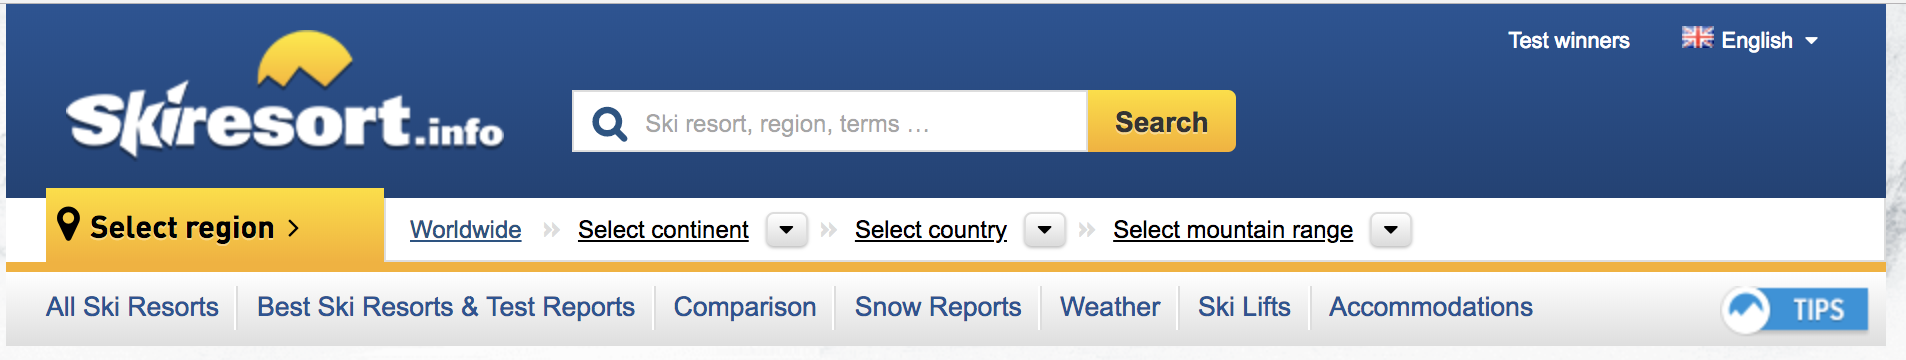
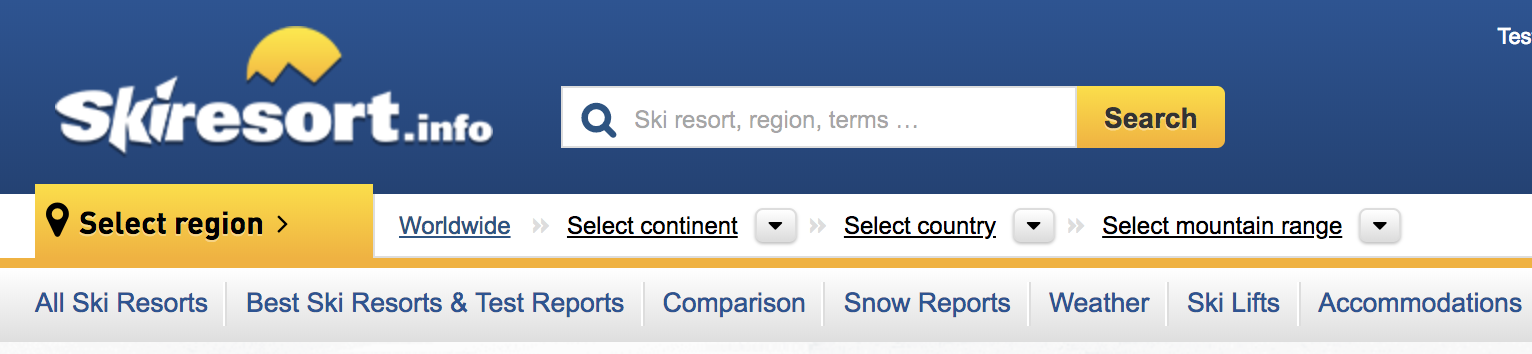
Fixed the formatting

diff --git a/app/templates/layout2.html b/app/templates/layout2.html
@@ -14,10 +14,8 @@
     body {
         background-image: url( '/static/img/skiimage.jpg' );
     }
-    .collapse navbar-collapse {
-    background-color: white;
-    }
-    div {
+
+    .container-fluid {
     background-color: white;
     }
 
@@ -35,10 +33,10 @@
           </button>
           <div class="collapse navbar-collapse" id="navbarToggle">
             <div class="navbar-nav mr-auto">
-              <a class="nav-item nav-link" href="{{ url_for('home') }}"><font color="black">Home</font></a>
-              <a class="nav-item nav-link" href="{{ url_for('about') }}"><font color="black">About</font></a>
-              <a class="nav-item nav-link" href="{{ url_for('insights') }}"><font color="black">Insights</font></a>
-              <a class="nav-item nav-link" href="{{ url_for('form_1') }}"><font color="black">Recommender</font></a>
+              <a class="nav-item nav-link" href="{{ url_for('home') }}">Home</a>
+              <a class="nav-item nav-link" href="{{ url_for('about') }}">About</a>
+              <a class="nav-item nav-link" href="{{ url_for('insights') }}">Insights</a>
+              <a class="nav-item nav-link" href="{{ url_for('form_1') }}">Recommender</a>
             </div>
           </div>
         </div>
@@ -47,7 +45,7 @@
     <main role="main" class="container">
       <div class="row">
     <div class="container-fluid">
-    <div id="page-content" class="col-lg-10 offset-md-1 pt-5 px-4 shadow-lg">
+    <div id="page-content" class="col-lg-11 offset-md-0.5 ">
           {% with messages = get_flashed_messages(with_categories=true) %}
             {% if messages %}
               {% for category, message in messages %}

diff --git a/app/templates/about.html b/app/templates/about.html
@@ -10,19 +10,19 @@
                 <p>
                     The data used to complete this project was scraped from Skiresort.info.com
                 </p>
-    <img src="{{url_for('static', filename='SkiInfo.png' )}}" width="800" height="160" align="middle" />
+    <img src="{{url_for('static', filename='SkiInfo.png' )}}" width="600" height="120" align="middle" />
     <p style="border: 1px solid black" length = "800"> </p>
     <h3>Ski Resort Details </h3>
         <p>
         The ski resort detail have basic information about each of the resorts including the terrain details and pricing.
     </p>
-    <img src="{{url_for('static', filename='SkiDetails.png' )}}" width="650" height="500" align="middle"/>
+    <img src="{{url_for('static', filename='SkiDetails.png' )}}" width="600" height="450" align="middle"/>
     <p style="border: 1px solid black" length = "800"> </p>
     <h3>Ratings </h3>
             <p>
         The website also provides ratings that have been put together by ski experts who have done onsite visits at each of the resorts. The categories included in the evaluation are ski-related and non ski-related.
     </p>
-    <img src="{{url_for('static', filename='Ratings.png' )}}" width="800" height="350" align="middle"/>
+    <img src="{{url_for('static', filename='Ratings1.png' )}}" width="600" height="800" align="middle"/>
     <p style="border: 1px solid black" length = "800"> </p>
     <h3>(Half)Pipeline for Analysis </h3>
                 <p>

diff --git a/app/templates/googlechart.html b/app/templates/googlechart.html
@@ -251,7 +251,7 @@
         var options = {
 
           title: 'Features of Each of the Ski Resorts',
-          backgroundColor: '#FAFAFA',
+          backgroundColor: 'white',
           chartArea: {
             top: 55,
             height: '30%',
@@ -370,8 +370,9 @@
        <option value="Accomodations">Accomodations</option>
       </select>
     </div>
-    <div id="chart_div" style="width: 800px; height: 600px;"></div>
+    <div id="chart_div" style="width: 650px; height: 600px;"></div>
   </body>
+  <br />
   <p style="border: 1px solid black" length = "800"> </p>
   <form id='userinfoform_ski' method='get' action='/recommendations' >
   <input type="hidden" id="postId" name="name_skiresort" value="{{resort}}">

diff --git a/app/templates/insights.html b/app/templates/insights.html
@@ -11,7 +11,7 @@
                 <p>
                     In this graphic, we show the distribution of where the majority of the ski resorts are in the world and the outline of the countried give the snow quality.
                 </p>
-    <img src="{{url_for('static', filename='Plot1B1.png' )}}" width="750" height="500" align="middle"/>
+    <img src="{{url_for('static', filename='Plot1B1.png' )}}" width="600" height="400" align="middle"/>
 
 
 {% endblock content  %}

diff --git a/app/templates/layout.html b/app/templates/layout.html
@@ -57,7 +57,7 @@
           {% block content %}{% endblock %}
         </div>
     <div class="container-fluid">
-    <div id="page-content" class="col-lg-4 offset-md-4 pt-5 px-4 shadow-lg">
+    <div id="page-content" class="col-lg-6 offset-md-3 pt-5 px-4 shadow-lg">
           <div class="content-section">
             <h3>Get Started Here:</h3>
               <ul class="list-group">

diff --git a/app/static/main.css b/app/static/main.css
@@ -88,7 +88,4 @@ a.article-title:hover {
     width: 50%;
 }
 
-.container {
-width: 700px;
- margin: 0 auto;
-}
+

diff --git a/app/joannaski_appMAIN.py b/app/joannaski_appMAIN.py
@@ -75,7 +75,6 @@ allresorts1 = allresorts1.tolist()
 # Make a function to get cosine similarities
 def get_cosinesim(df_norm, price, snow, apres, location):
     # All possible variables to be weighted
-    print(location)
     country_var = [col for col in df_norm if col.startswith('Country_')]
     apres_var = ['Food', 'Accommodations']
     price_var = ['Adult']
@@ -221,7 +220,6 @@ def indexplotter():
 
     resort = request.args['name_skiresort']
 
-    print(allresorts1)
     if resort == '' or resort not in allresorts1:
         resort = 'Vail'
     price = request.args.get('price', False)
